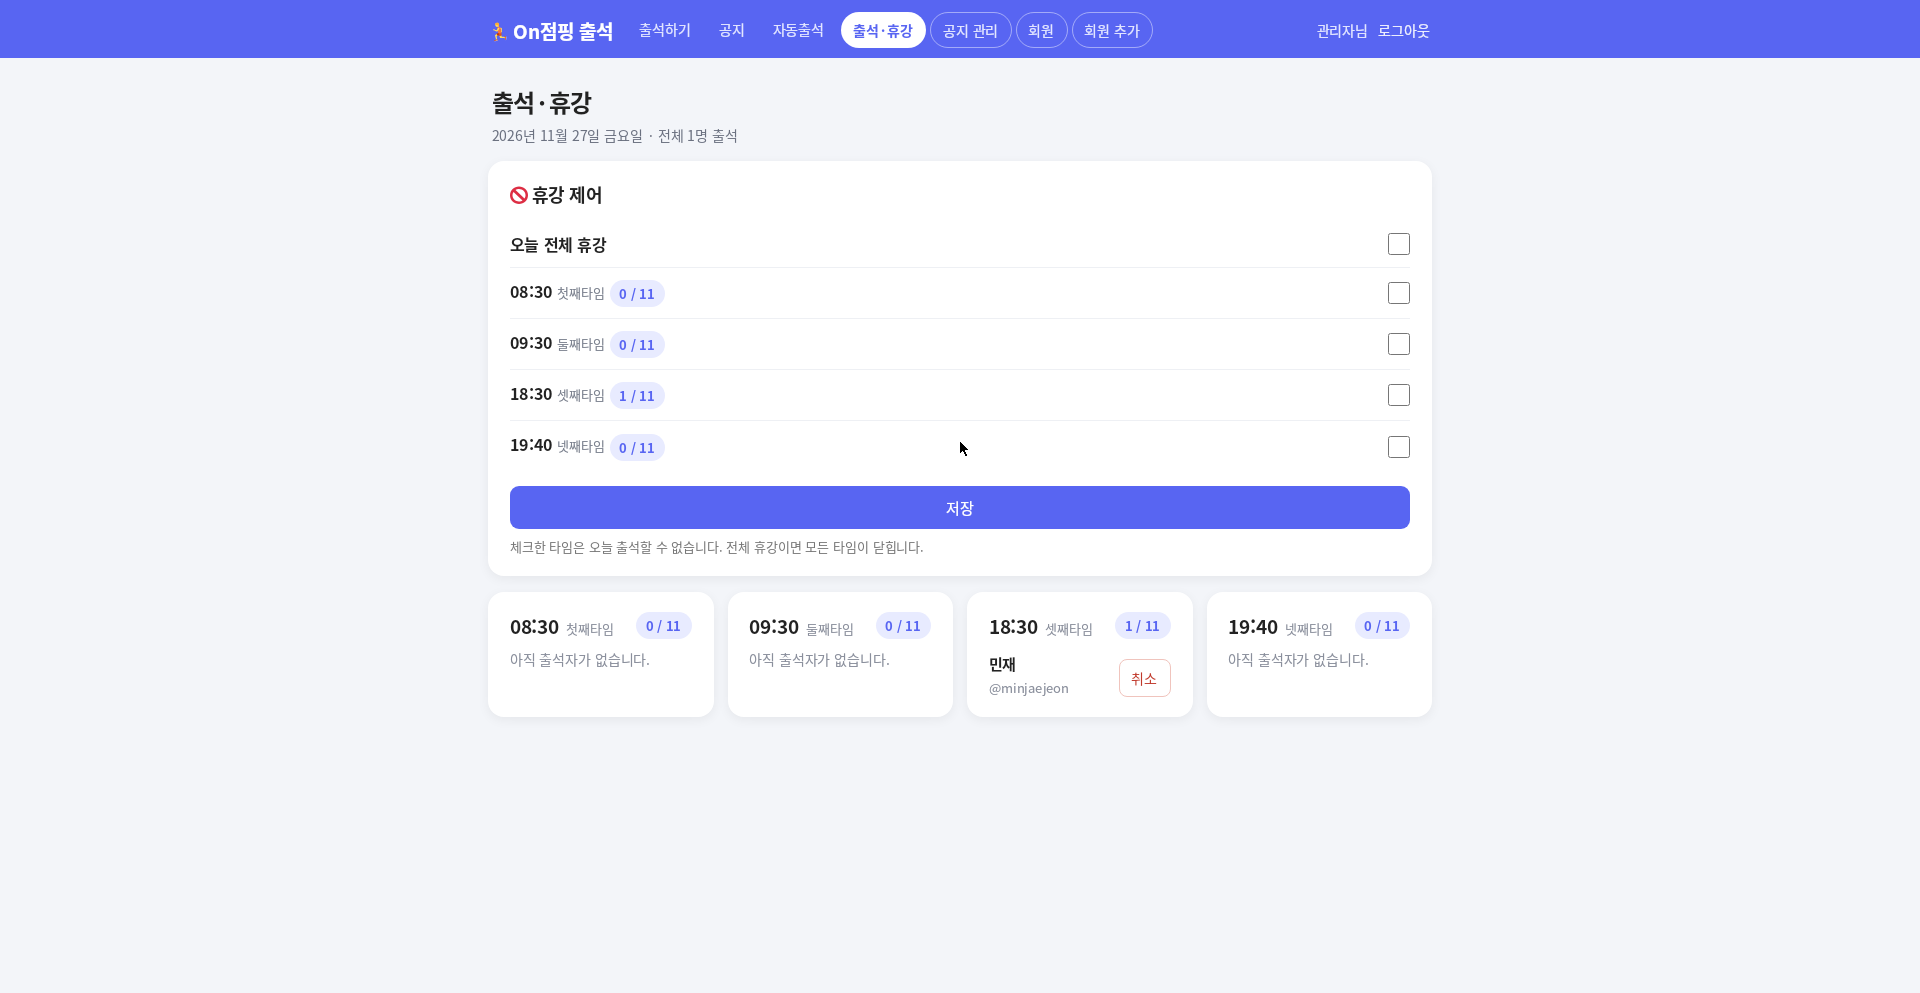
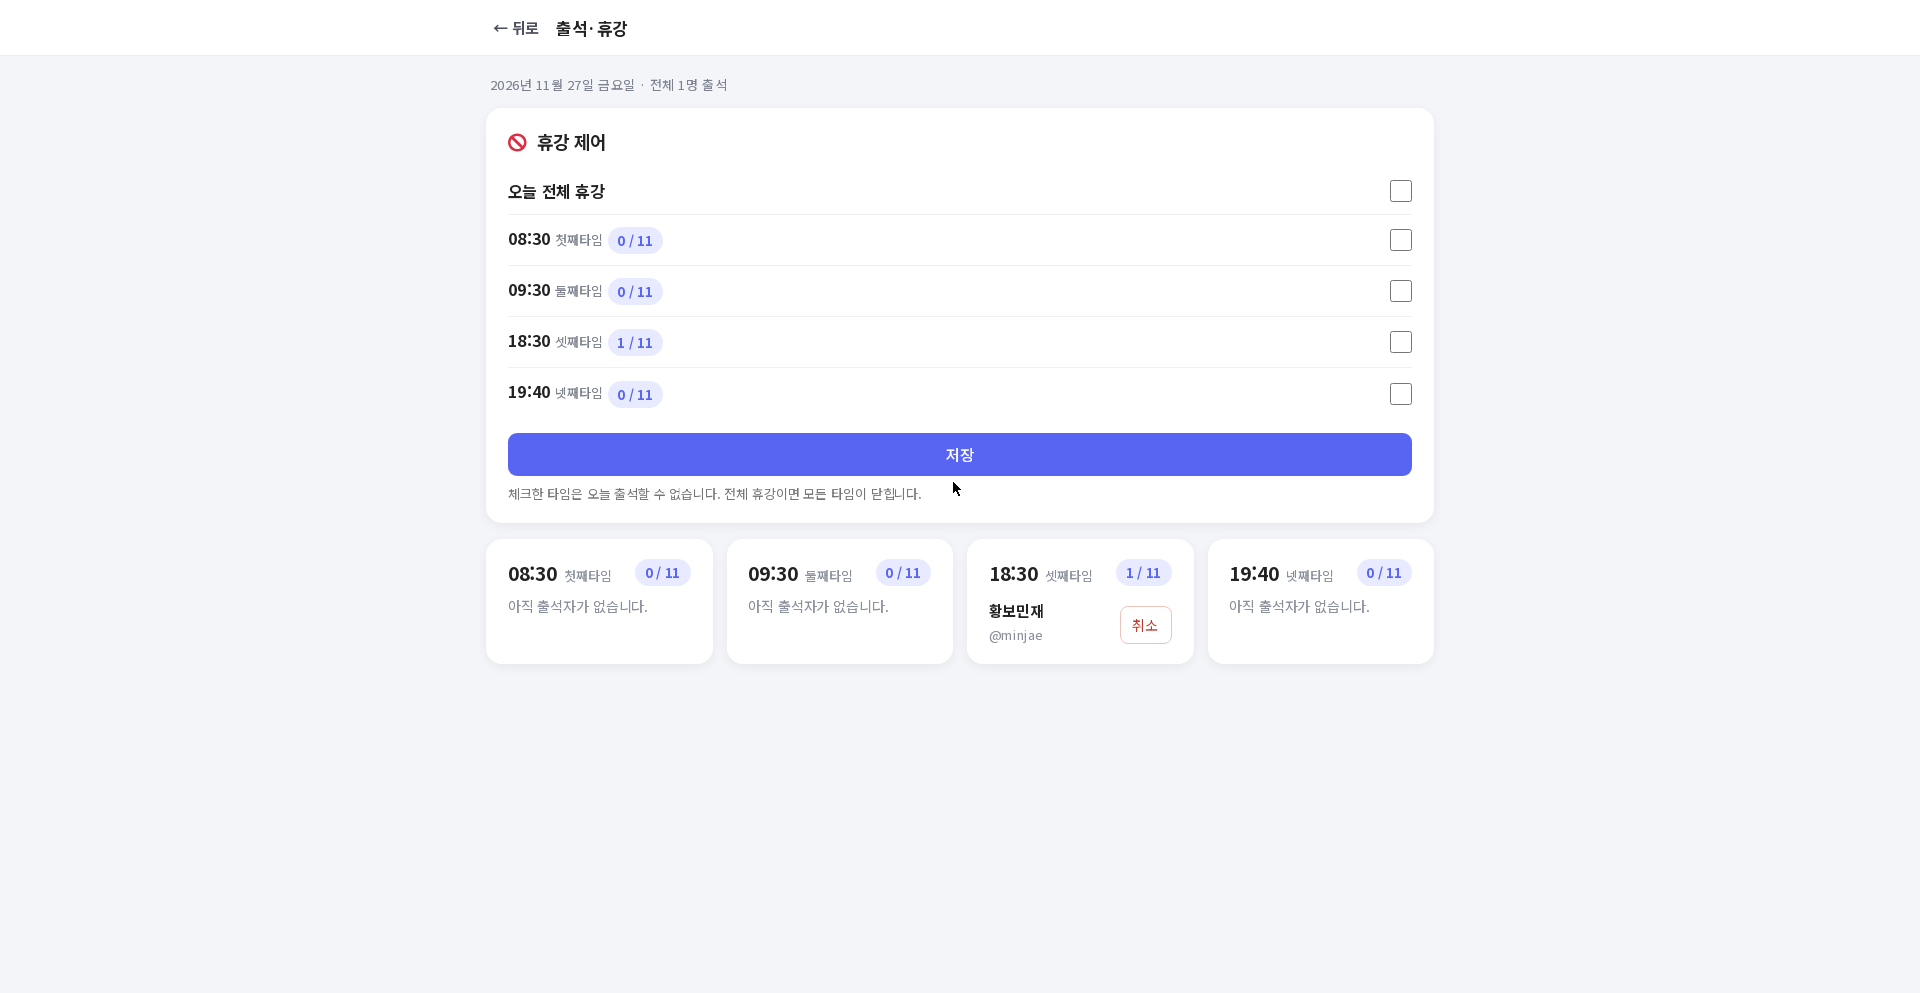
라이브 화면 캡처 갱신 (블록 홈 · 출석 · 공지 이미지 · PWA 설치 패널)

diff --git a/README.md b/README.md
@@ -7,9 +7,15 @@
 - 라이브: **https://onjumping.vercel.app**
 - 저장소: https://github.com/minjaedev15/onjumping-checkin
 
-| 로그인 | 회원 홈(블록) | 관리자 홈 |
+| 로그인 | 홈(블록) | 출석하기 |
 |---|---|---|
-| ![로그인](docs/screenshots/login.png) | ![회원 화면](docs/screenshots/member.png) | ![관리자 화면](docs/screenshots/admin.png) |
+| ![로그인](docs/screenshots/login.png) | ![홈](docs/screenshots/home.png) | ![출석](docs/screenshots/checkin.png) |
+
+| 공지 이미지 | 관리자 · 출석/휴강 | 앱 설치 패널 |
+|---|---|---|
+| ![공지 이미지](docs/screenshots/notice-image.png) | ![관리자](docs/screenshots/admin.png) | ![PWA 설치](docs/screenshots/install-panel.png) |
+
+홈 공지 블록의 썸네일: `docs/screenshots/home-notice-image.png` · 공지 관리: `docs/screenshots/admin-notices.png`
 
 ## 화면
 
